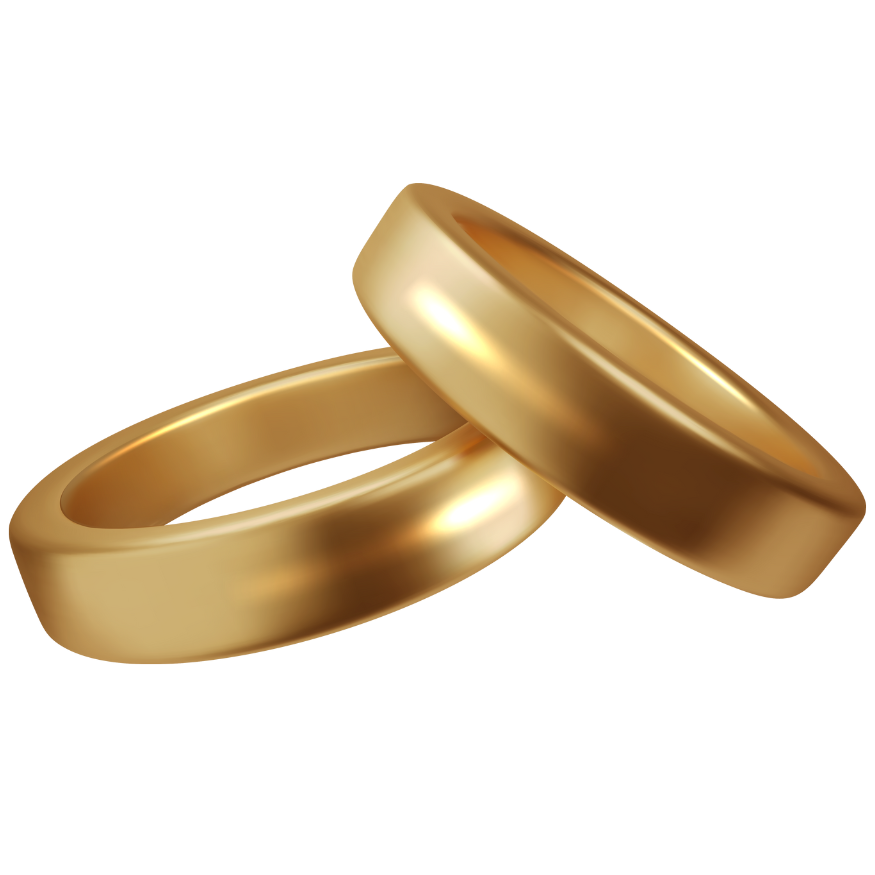
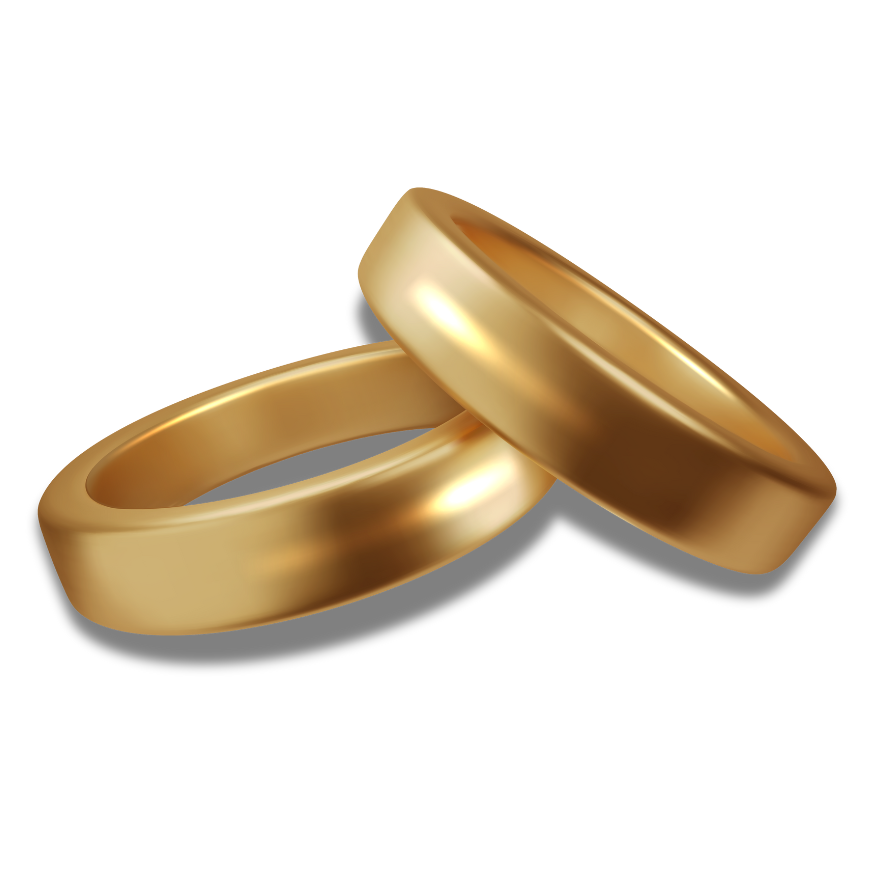
added changes

diff --git a/styles.css b/styles.css
@@ -80,28 +80,28 @@ nav ul li a:hover {
 }
 
 .feature-card {
-  background-color: #f5ecdd;
+  background-color: transparent;
   width: 200px;
   height: 200px;
   display: flex;
   flex-direction: column;
   justify-content: center;
   align-items: center;
-  box-shadow: 0 6px 12px rgba(0, 0, 0, 0.15);
+  box-shadow: none;
   border-radius: 12px;
   transition: transform 0.3s ease, box-shadow 0.3s ease;
 }
 
 .feature-card:hover {
   transform: translateY(-8px);
-  box-shadow: 0 8px 18px rgba(0, 0, 0, 0.2);
 }
 
 .feature-card img {
-  width: 70px;
-  height: 70px;
+  width: 120px;
+  height: 120px;
   margin-bottom: 12px;
-  opacity: 0.9;
+  opacity: 0.95;
+  filter: drop-shadow(0 6px 10px rgba(0, 0, 0, 0.4));
 }
 
 .feature-card h3 { 
@@ -113,6 +113,38 @@ nav ul li a:hover {
   letter-spacing: 0.5px; 
 }
 
+/* ========== TIPS SECTION ========== */
+#tips {
+  padding-left: 100px;
+  padding-top: 60px;
+  position: relative;
+}
+
+#tips h2 {
+  font-weight: 700;
+  font-size: 90px;
+  color: #f9faf4;
+  line-height: 1;
+  text-shadow: 0 4px 4px rgba(0, 0, 0, 0.6);
+  text-align: left;
+  margin: 0;
+  margin-bottom: 30px;
+  position: relative;
+  z-index: 1;
+}
+
+#tips h3 {
+  font-family: "Vollkorn", serif;
+  font-style: italic;
+  color: #f9faf4;
+  font-size: 64px;
+  line-height: 1;
+  margin: 0;
+  margin-top: -5px;
+  margin-left: 15px;
+  position: relative;
+  z-index: 2;
+}
 .vein-row {
   display: flex;
   align-items: center;
